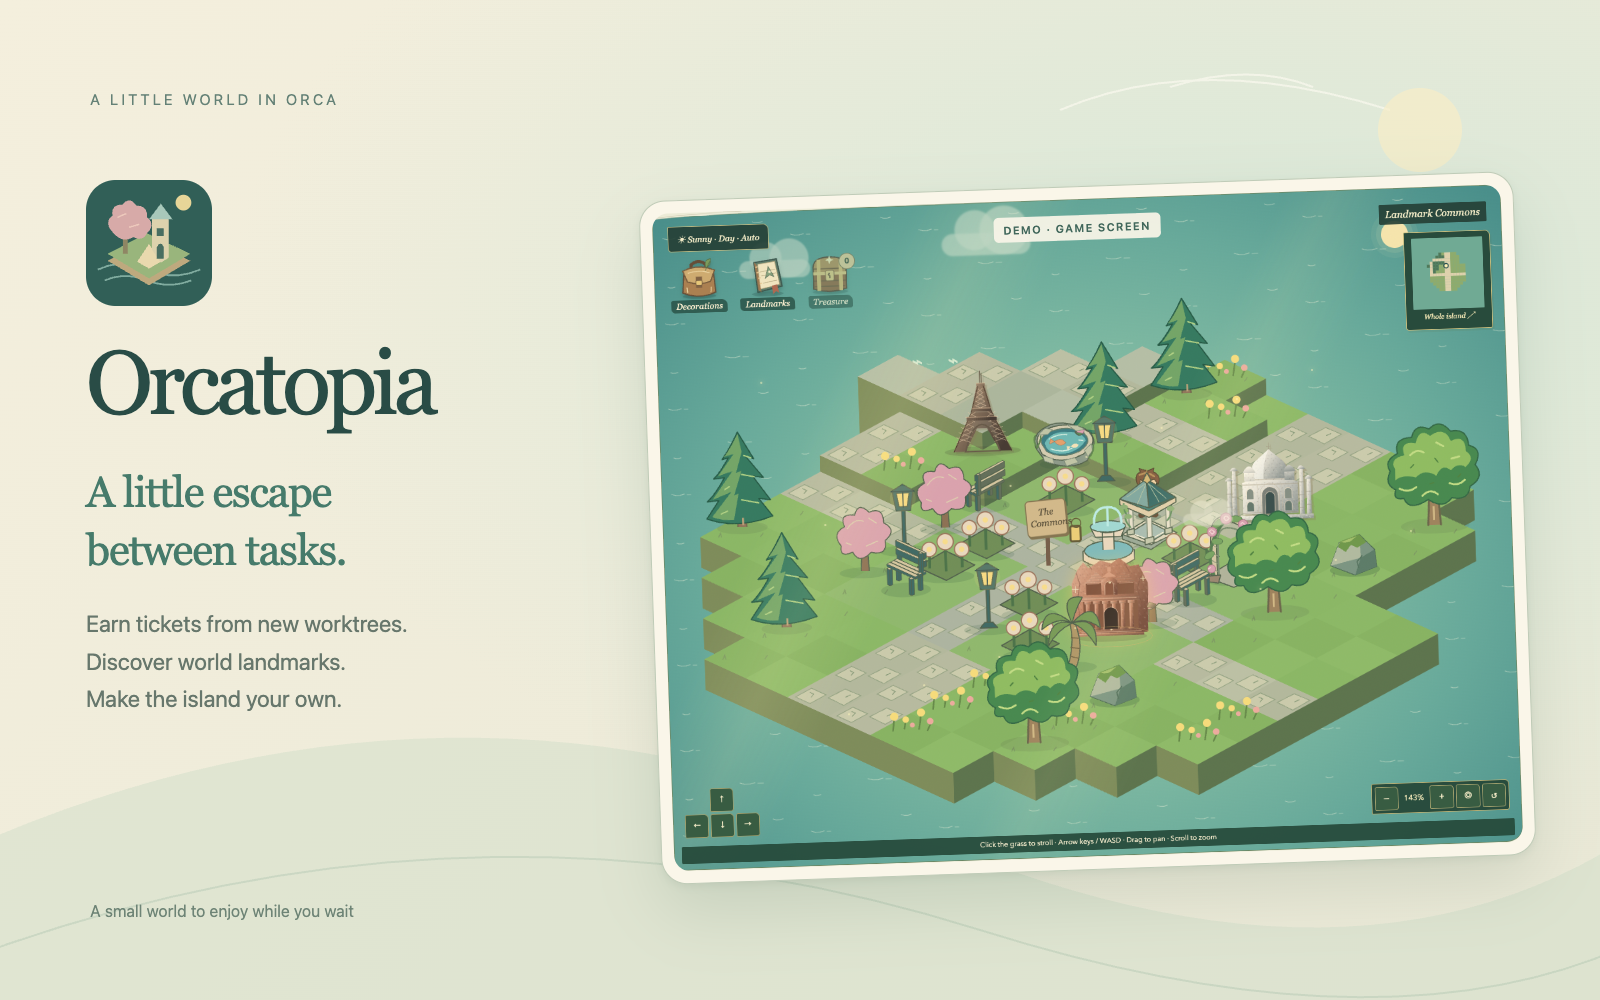
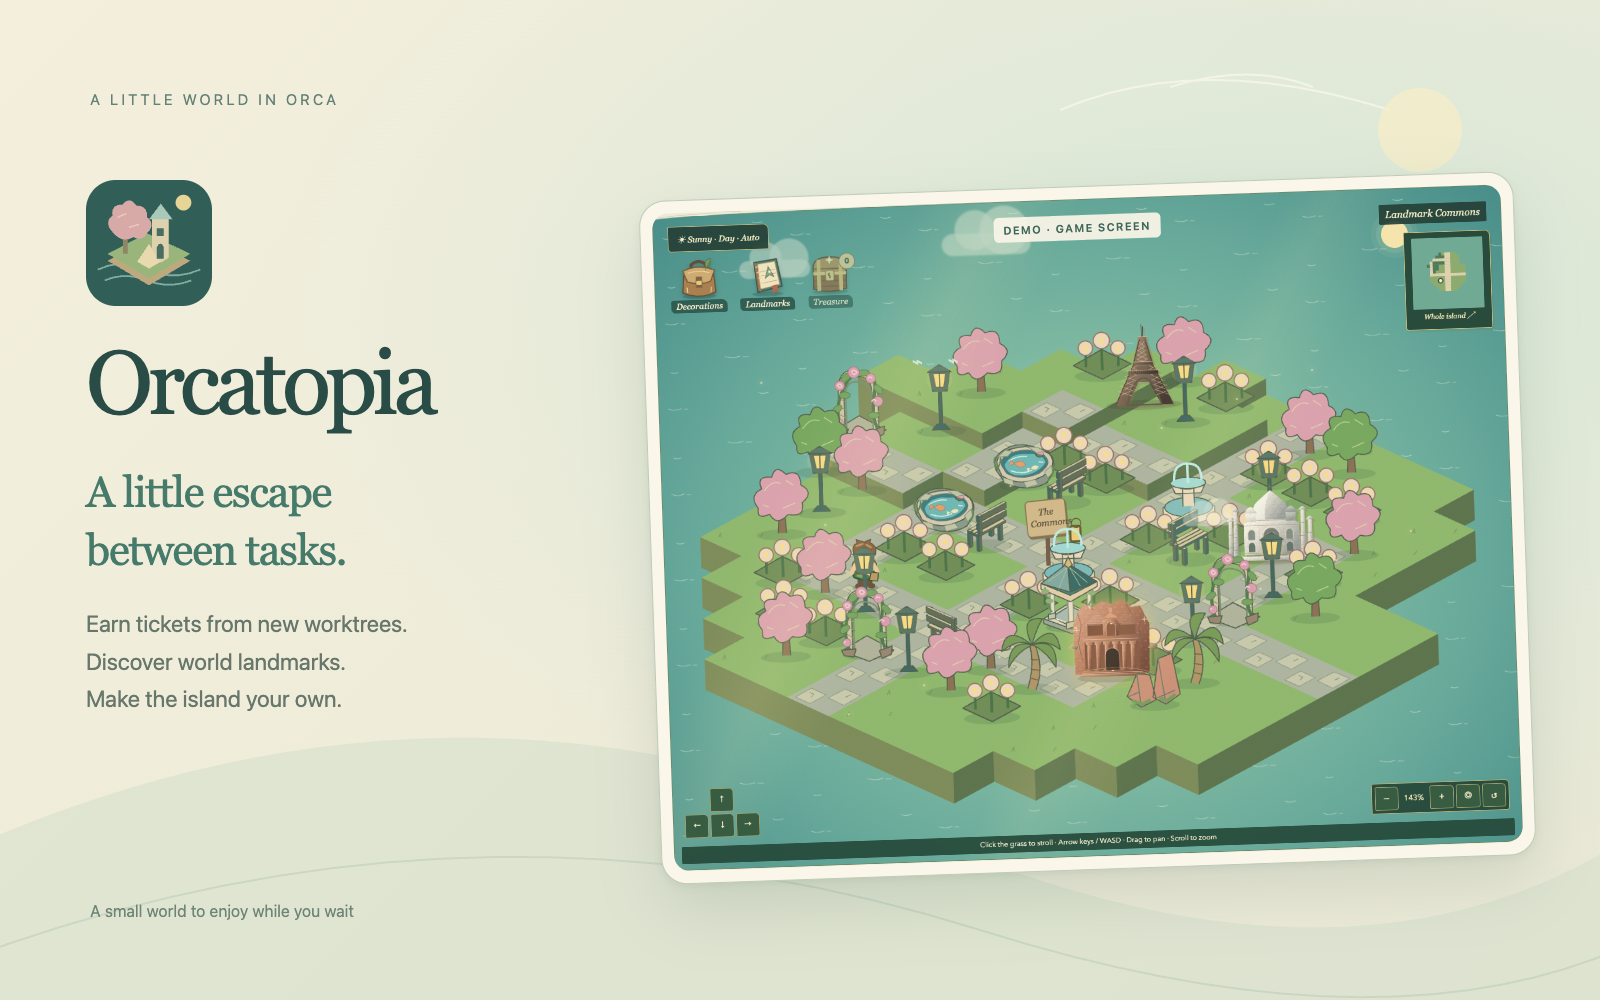
Arrange showcase island as a landscaped garden

Changed region(s): [[0.4375, 0.31, 0.9375, 0.744]]

diff --git a/plugins/landmark-island/tests/showcase.spec.ts b/plugins/landmark-island/tests/showcase.spec.ts
@@ -2,7 +2,7 @@ import { introductionHtml } from './introduction';
 import { test, expect } from '@playwright/test';
 import { empty, validate } from '../src/game';
 import { decorationById, DUPLICATE_MATERIALS } from '../src/decorations';
-import { at } from '../src/world';
+import { at, landAtLevel } from '../src/world';
 
 test('Orcatopia showcase keeps legacy storage and shows an English fixture island', async ({
   page,
@@ -15,46 +15,93 @@ test('Orcatopia showcase keeps legacy storage and shows an English fixture islan
   };
   for (const landmark of ['eiffel', 'taj', 'petra', 'fuji']) acquire(landmark);
   fixture.placements = [
-    { landmark: 'eiffel', cell: at(8, 10)! },
-    { landmark: 'taj', cell: at(13, 8)! },
-    { landmark: 'petra', cell: at(14, 13)! },
+    { landmark: 'eiffel', cell: at(9, 7)! },
+    { landmark: 'taj', cell: at(14, 9)! },
+    { landmark: 'petra', cell: at(15, 14)! },
   ];
-  // A walkable cross connects the three landmark gardens and fountain court.
-  for (let row = 9; row <= 14; row++)
-    for (let col = 9; col <= 14; col++)
-      fixture.floors.push({
-        cell: at(col, row)!,
-        decoration: col === 11 || row === 11 ? 'stonepath' : 'grass',
-      });
+  // A promenade loops around four planted courts, with open cross paths.
+  const land = landAtLevel(4);
+  const promenade = (col: number, row: number) =>
+    col === 11 ||
+    row === 11 ||
+    ((row === 8 || row === 14) && col >= 8 && col <= 14) ||
+    ((col === 8 || col === 14) && row >= 8 && row <= 14);
+  for (const tile of land)
+    fixture.floors.push({
+      cell: tile.id,
+      decoration: promenade(tile.col, tile.row) ? 'stonepath' : 'grass',
+    });
   const garden: [string, number, number, number?][] = [
-    ['fuji-pond', 9, 9],
-    ['eiffel-gift', 10, 9],
-    ['taj-gift', 14, 9],
-    ['taj-gift', 10, 10],
-    ['taj-pavilion', 12, 10],
-    ['taj-gift', 13, 10],
-    ['eiffel-rose-arch', 14, 10],
-    ['eiffel-special', 9, 11, 1],
-    ['taj-special', 12, 11],
-    ['eiffel-special', 14, 11, 3],
-    ['fuji-gift', 9, 12],
-    ['taj-gift', 10, 12],
-    ['taj-gift', 13, 12],
-    ['fuji-gift', 14, 12],
-    ['eiffel-gift', 9, 13],
-    ['taj-gift', 10, 13],
-    ['taj-gift', 12, 13],
-    ['fuji-gift', 9, 14],
-    ['eiffel-special', 10, 14],
-    ['eiffel-gift', 12, 14],
-    ['taj-gift', 13, 14],
-    ['petra-gift', 14, 14],
+    // Cherry grove and water garden, with benches facing the ponds.
+    ['fuji-pond', 9, 10],
+    ['fuji-pond', 9, 12],
+    ['fuji-gift', 7, 9],
+    ['fuji-gift', 7, 12],
+    ['fuji-gift', 7, 14],
+    ['fuji-gift', 9, 15],
+    ['fuji-gift', 13, 15],
+    ['fuji-gift', 9, 6],
+    ['fuji-gift', 12, 6],
+    ['fuji-gift', 15, 8],
+    ['eiffel-special', 10, 10, 1],
+    ['eiffel-special', 10, 12, 1],
+    // A pavilion and matching fountains anchor the formal flower garden.
+    ['taj-pavilion', 13, 13],
+    ['taj-special', 12, 9],
+    ['taj-special', 12, 12],
+    ['eiffel-special', 13, 10, 3],
+    ['eiffel-special', 12, 15, 2],
+    ['eiffel-rose-arch', 11, 16],
+    ['eiffel-rose-arch', 6, 11],
+    ['eiffel-rose-arch', 15, 11],
+    // Paired lanterns mark the garden entrances, without filling the paths.
+    ['eiffel-gift', 10, 15],
+    ['eiffel-gift', 12, 16],
+    ['eiffel-gift', 7, 10],
+    ['eiffel-gift', 7, 13],
+    ['eiffel-gift', 10, 7],
+    ['eiffel-gift', 13, 8],
+    ['eiffel-gift', 15, 10],
+    ['eiffel-gift', 15, 12],
+    ['petra-gift', 16, 13],
+    ['petra-gift', 14, 15],
+    ['petra-special', 16, 14],
+    // Green canopies frame the pink grove and soften the outer lawns.
+    ['oak', 6, 12],
+    ['oak', 16, 10],
+    ['oak', 13, 6],
+    ['fuji-gift', 10, 17],
+    ['fuji-gift', 13, 16],
+    ['taj-gift', 9, 16],
+    ['taj-gift', 10, 16],
+    ['taj-gift', 14, 16],
+    ['taj-gift', 14, 7],
+    ['taj-gift', 10, 6],
+    ['taj-gift', 13, 7],
   ];
+  // Low flower borders repeat around the courts; taller pieces stay spaced.
+  const reserved = new Set([
+    ...fixture.placements.map((p) => p.cell),
+    ...garden.map(([, col, row]) => at(col, row)!),
+  ]);
+  for (const tile of land) {
+    if (reserved.has(tile.id) || promenade(tile.col, tile.row)) continue;
+    const { col, row } = tile;
+    if (
+      (col >= 9 && col <= 13 && row >= 9 && row <= 13) ||
+      (row === 7 && col >= 8 && col <= 13) ||
+      (row === 15 && col >= 8 && col <= 14) ||
+      (col === 15 && row >= 9 && row <= 13) ||
+      (col === 7 && row >= 9 && row <= 14)
+    )
+      garden.push(['taj-gift', col, row]);
+  }
   const used = new Map<string, number>();
   for (const [decoration, col, row, rotation] of garden) {
     const count = (used.get(decoration) ?? 0) + 1;
     used.set(decoration, count);
-    if (count > (decorationById(decoration)!.gift ? 1 : 0))
+    const definition = decorationById(decoration)!;
+    if (definition.cost > 0 && count > (definition.gift ? 1 : 0))
       fixture.crafts.push({
         id: `garden-${fixture.crafts.length}`,
         decoration,

diff --git a/docs/screenshots/README.ko.md b/docs/screenshots/README.ko.md
@@ -48,7 +48,7 @@ cp test-results/landmark-island/orcatopia-island-demo.png docs/screenshots/orcat
 
 [영어 소개](../../plugins/landmark-island/assets/orcatopia-introduction.png)와 [한국어 소개](../../plugins/landmark-island/assets/orcatopia-introduction.ko.png)는 1600 × 1000 홍보 이미지입니다. 직접 그린 섬 아이콘, Orcatopia 제품명, 짧은 소개 문구와 실제 브라우저에서 촬영한 fixture 정원을 함께 보여 줍니다. 화면에는 DEMO 표시를 명시합니다. 시스템 글꼴과 로컬 SVG/CSS로 구성하며 다운로드한 폰트나 생성형 게임 화면은 포함하지 않습니다. 영어·한국어 플러그인 README의 첫 이미지로 각각 사용합니다. 설치 후에도 같은 상대 경로가 작동하도록 두 이미지를 패키지의 `assets/`에 포함합니다.
 
-재생성 가능한 레이아웃은 `plugins/landmark-island/tests/introduction.ts`에 있습니다. showcase 테스트에서 언어별 실제 게임 화면을 촬영한 뒤 소개 이미지를 구성합니다. 최신 fixture는 정상 보유·제작 기록으로 잉어 연못, 파빌리온과 장미 아치도 배치합니다.
+재생성 가능한 레이아웃은 `plugins/landmark-island/tests/introduction.ts`에 있습니다. showcase 테스트에서 언어별 실제 게임 화면을 촬영한 뒤 소개 이미지를 구성합니다. 정원은 해금된 130칸 전체에 잔디와 순환 산책로, 교차하는 길을 배치합니다. 벚나무와 참나무가 두 개의 잉어 연못, 꽃 테두리, 분수 한 쌍, 파빌리온, 장미 아치 입구를 감쌉니다. 세 랜드마크는 간격을 두고 정원의 중심 경관으로 배치합니다. 유료 제작 장식은 정상 보유·제작 기록을 사용하며 실제 섬 저장 데이터는 변경하지 않습니다.
 
 ```sh
 pnpm nx run landmark-island:ui-test --grep='Orcatopia showcase'

diff --git a/docs/screenshots/README.md b/docs/screenshots/README.md
@@ -48,7 +48,7 @@ cp test-results/landmark-island/orcatopia-island-demo.png docs/screenshots/orcat
 
 [English introduction](../../plugins/landmark-island/assets/orcatopia-introduction.png) and [Korean introduction](../../plugins/landmark-island/assets/orcatopia-introduction.ko.png) are 1600 × 1000 promotional compositions: an original island emblem, the Orcatopia name, a short product description and a real browser capture of the fixture garden. The screenshot retains an explicit DEMO label. The composition uses system fonts and local SVG/CSS; it includes no downloaded fonts or generated game imagery. The English image leads the English plugin README; the Korean image leads its Korean counterpart. Both are bundled under `assets/` so the same relative README links work after installation.
 
-The reproducible layout is `plugins/landmark-island/tests/introduction.ts`; the showcase test captures the running game separately in each language before composing the images. The latest fixture also places a koi pond, pavilion and rose arch using the normal ownership ledger.
+The reproducible layout is `plugins/landmark-island/tests/introduction.ts`; the showcase test captures the running game separately in each language before composing the images. The garden uses all 130 unlocked tiles for lawns, a loop promenade and crossing paths. Cherry trees and oaks frame twin koi ponds, flower borders, paired fountains, a pavilion and rose arch entrances. Three landmarks remain spaced apart as focal points. All paid decorations use the normal ownership and crafting ledger; this fixture does not modify a real island save.
 
 ```sh
 pnpm nx run landmark-island:ui-test --grep='Orcatopia showcase'
